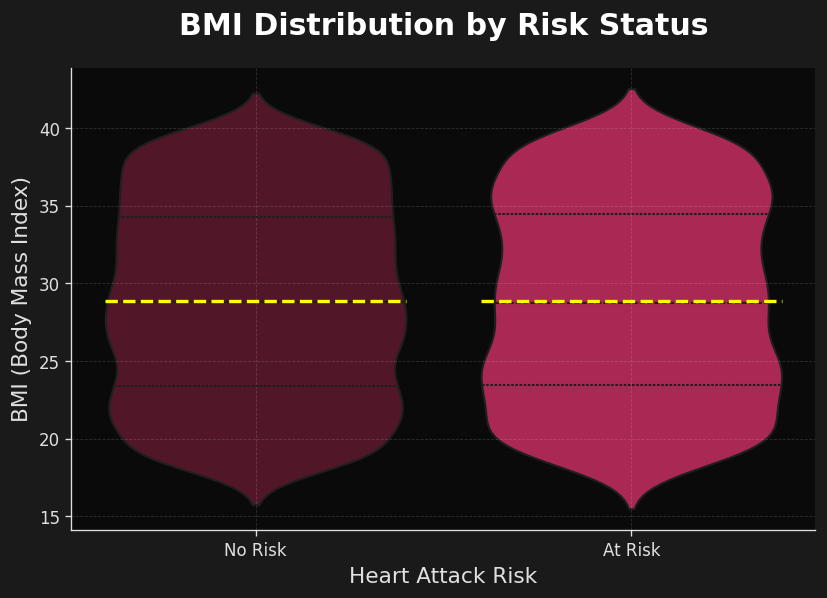
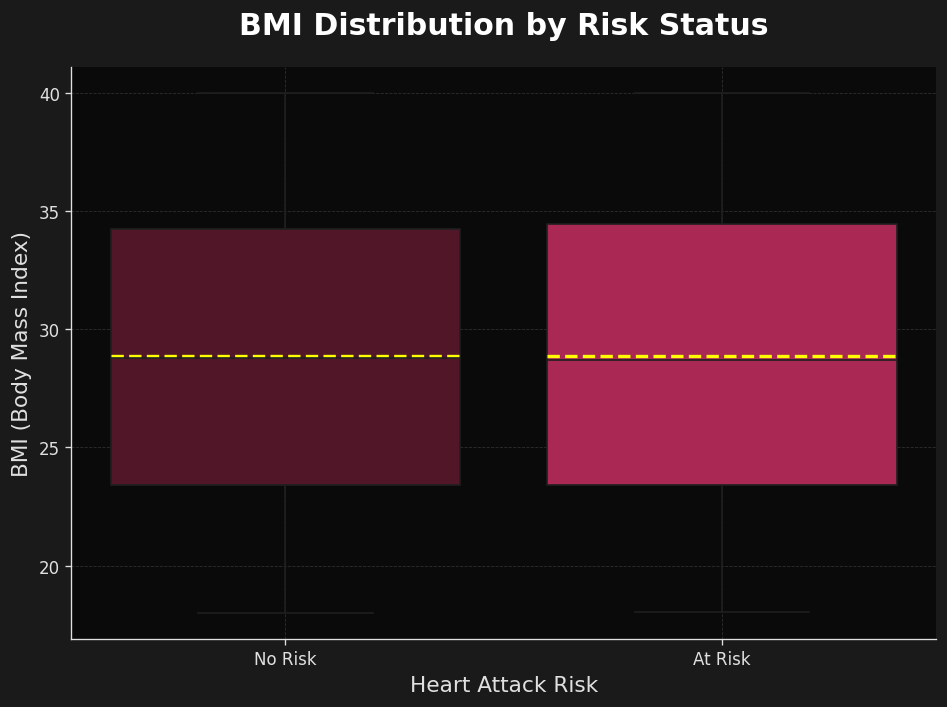
Added more Graphs

diff --git a/app.py b/app.py
@@ -81,7 +81,7 @@ def generate_insights(df):
                 f"Avg BMI (At Risk): <strong>{avg_bmi_risk:.1f}</strong>",
                 f"Avg BMI (Healthy): <strong>{avg_bmi_healthy:.1f}</strong>"
             ],
-            "description": "Body Mass Index (BMI) distribution shows distinct patterns between risk groups, highlighting obesity as a potential contributor."
+            "description": "The box plot compares the median and spread of Body Mass Index (BMI) between risk groups, highlighting potential differences in distribution and outliers."
         }
 
         # 5. Lifestyle Factors
@@ -121,10 +121,64 @@ def generate_insights(df):
             "description": "This chart provides a high-level view of the dataset's balance between at-risk and healthy individuals."
         }
 
+        # 8. Heart Rate Line Plot
+        avg_hr_by_age = df.groupby('Age')['Heart Rate'].mean()
+        peak_hr_age = avg_hr_by_age.idxmax()
+        
+        insights['heart_rate_line'] = {
+            "title": "Heart Rate Trends",
+            "stats": [
+                f"Peak Average Heart Rate Age: <strong>{peak_hr_age} years</strong>",
+                f"Max Average Heart Rate: <strong>{avg_hr_by_age.max():.1f} bpm</strong>"
+            ],
+            "description": "This line plot visualizes how the average heart rate changes across different ages, highlighting potential age-related trends."
+        }
+
+        # 9. Medical Indicators Correlation Heatmap
+        # Ensure Systolic_BP is available (it might be created in step 3, but good to be safe)
+        if 'Systolic_BP' not in df.columns:
+            df['Systolic_BP'] = df['Blood Pressure'].str.split('/').str[0].astype(float)
+            
+        target_cols = ['Age', 'Cholesterol', 'Heart Rate', 'BMI', 'Systolic_BP', 'Heart Attack Risk']
+        # Filter for columns that actually exist
+        existing_cols = [c for c in target_cols if c in df.columns]
+        
+        corr_matrix = df[existing_cols].corr()
+        
+        # Find strongest correlation with Risk (excluding Risk itself)
+        if 'Heart Attack Risk' in corr_matrix.columns:
+            risk_corr = corr_matrix['Heart Attack Risk'].drop('Heart Attack Risk')
+            strongest_feature = risk_corr.abs().idxmax()
+            strongest_val = risk_corr[strongest_feature]
+        else:
+            strongest_feature = "N/A"
+            strongest_val = 0.0
+        
+        insights['correlation_heatmap'] = {
+            "title": "Medical Correlations",
+            "stats": [
+                f"Strongest Risk Predictor: <strong>{strongest_feature}</strong>",
+                f"Correlation Coefficient: <strong>{strongest_val:.2f}</strong>"
+            ],
+            "description": "This heatmap focuses specifically on physiological measurements (Age, BMI, BP, etc.) to identify which medical indicators have the strongest relationship with heart attack risk."
+        }
+
+        # 10. Cholesterol Area Plot
+        avg_chol_by_age = df.groupby('Age')['Cholesterol'].mean()
+        
+        insights['cholesterol_area'] = {
+            "title": "Cholesterol Accumulation",
+            "stats": [
+                f"Highest Avg Cholesterol: <strong>{avg_chol_by_age.max():.1f} mg/dL</strong>",
+                f"Age with Highest Cholesterol: <strong>{avg_chol_by_age.idxmax()} years</strong>"
+            ],
+            "description": "The area plot shows the magnitude of average cholesterol levels across the age spectrum."
+        }
+
     except Exception as e:
         print(f"Error generating insights: {e}")
         # Fallback for all keys if something fails
-        for key in ['age_distribution', 'risk_by_gender', 'cholesterol_bp', 'bmi_analysis', 'lifestyle_factors', 'age_groups', 'risk_distribution_pie']:
+        for key in ['age_distribution', 'risk_by_gender', 'cholesterol_bp', 'bmi_analysis', 'lifestyle_factors', 'age_groups', 'risk_distribution_pie', 'heart_rate_line', 'correlation_heatmap', 'cholesterol_area']:
             if key not in insights:
                 insights[key] = {
                     "title": "Analysis Unavailable",
@@ -158,13 +212,16 @@ def dataset_page():
 
     # Define available plots
     plot_names = [
-        {"id": "age_distribution", "name": "Age Distribution by Risk"},
-        {"id": "risk_by_gender", "name": "Heart Attack Risk by Gender"},
-        {"id": "cholesterol_bp", "name": "Cholesterol vs Blood Pressure"},
-        {"id": "bmi_analysis", "name": "BMI Distribution by Risk"},
-        {"id": "lifestyle_factors", "name": "Lifestyle Risk Factors"},
-        {"id": "age_groups", "name": "Risk Distribution Across Age Groups"},
-        {"id": "risk_distribution_pie", "name": "Overall Risk Distribution"},
+        {"id": "age_distribution", "name": "Age Distribution by Risk (Histogram)"},
+        {"id": "risk_by_gender", "name": "Heart Attack Risk by Gender (Bar Chart)"},
+        {"id": "cholesterol_bp", "name": "Cholesterol vs Blood Pressure (Scatter Plot)"},
+        {"id": "bmi_analysis", "name": "BMI Distribution by Risk (Box Plot)"},
+        {"id": "lifestyle_factors", "name": "Lifestyle Risk Factors (Bar Chart)"},
+        {"id": "age_groups", "name": "Risk Distribution Across Age Groups (Stacked Bar)"},
+        {"id": "risk_distribution_pie", "name": "Overall Risk Distribution (Pie Chart)"},
+        {"id": "heart_rate_line", "name": "Avg Heart Rate by Age (Line Plot)"},
+        {"id": "correlation_heatmap", "name": "Feature Correlation (Heatmap)"},
+        {"id": "cholesterol_area", "name": "Cholesterol Levels by Age (Area Plot)"},
     ]
 
     # Generate insights
@@ -282,8 +339,8 @@ def plot(plotname):
         
         # Create figure based on plot type
         figsize = (12, 7)
-        if plotname in ["cholesterol_bp", "bmi_analysis", "lifestyle_factors", "risk_distribution_pie"]:
-            figsize = (8, 5)
+        if plotname in ["cholesterol_bp", "bmi_analysis", "lifestyle_factors", "risk_distribution_pie", "correlation_heatmap"]:
+            figsize = (8, 6)
             
         fig, ax = plt.subplots(figsize=figsize, facecolor='#1a1a1a')
         
@@ -326,9 +383,9 @@ def plot(plotname):
             plt.setp(plt.getp(cbar.ax.axes, 'yticklabels'), color='#e0e0e0')
             
         elif plotname == "bmi_analysis":
-            # Violin plot for BMI distribution
-            sns.violinplot(data=df, x='Heart Attack Risk', y='BMI', 
-                          palette=risk_colors, ax=ax, inner='quartile')
+            # Box plot for BMI distribution
+            sns.boxplot(data=df, x='Heart Attack Risk', y='BMI', 
+                          palette=risk_colors, ax=ax)
             ax.set_title("BMI Distribution by Risk Status", fontsize=18, fontweight='bold', color='white', pad=20)
             ax.set_xlabel('Heart Attack Risk', fontsize=13, color='#e0e0e0')
             ax.set_ylabel('BMI (Body Mass Index)', fontsize=13, color='#e0e0e0')
@@ -423,12 +480,50 @@ def plot(plotname):
             # Ensure aspect ratio is equal so pie is drawn as a circle
             ax.axis('equal')
             
+        elif plotname == "heart_rate_line":
+            # Line Plot: Average Heart Rate by Age
+            avg_hr = df.groupby('Age')['Heart Rate'].mean()
+            avg_hr.plot(kind='line', color=colors[2], ax=ax, linewidth=2, marker='o', markersize=4)
+            ax.set_title("Average Heart Rate by Age", fontsize=18, fontweight='bold', color='white', pad=20)
+            ax.set_xlabel('Age (years)', fontsize=13, color='#e0e0e0')
+            ax.set_ylabel('Average Heart Rate (bpm)', fontsize=13, color='#e0e0e0')
+            ax.grid(True, alpha=0.2)
+
+        elif plotname == "correlation_heatmap":
+            # Heatmap: Medical Indicators Correlation
+            # Create Systolic BP if not exists
+            if 'Systolic_BP' not in df.columns:
+                df['Systolic_BP'] = df['Blood Pressure'].str.split('/').str[0].astype(float)
+            
+            cols_to_plot = ['Age', 'Cholesterol', 'Heart Rate', 'BMI', 'Systolic_BP', 'Heart Attack Risk']
+            # Filter only existing columns
+            cols_to_plot = [c for c in cols_to_plot if c in df.columns]
+            
+            corr = df[cols_to_plot].corr()
+            
+            sns.heatmap(corr, annot=True, fmt=".2f", cmap='RdYlBu_r', ax=ax, 
+                       cbar_kws={'label': 'Correlation Coefficient'}, vmin=-1, vmax=1)
+            ax.set_title("Medical Indicators Correlation Matrix", fontsize=18, fontweight='bold', color='white', pad=20)
+            # Fix for heatmap labels being cut off
+            plt.xticks(rotation=45, ha='right')
+            plt.yticks(rotation=0)
+
+        elif plotname == "cholesterol_area":
+            # Area Plot: Average Cholesterol by Age
+            avg_chol = df.groupby('Age')['Cholesterol'].mean()
+            ax.fill_between(avg_chol.index, avg_chol.values, color=colors[2], alpha=0.4)
+            ax.plot(avg_chol.index, avg_chol.values, color=colors[3], linewidth=2)
+            ax.set_title("Average Cholesterol Levels by Age", fontsize=18, fontweight='bold', color='white', pad=20)
+            ax.set_xlabel('Age (years)', fontsize=13, color='#e0e0e0')
+            ax.set_ylabel('Cholesterol (mg/dL)', fontsize=13, color='#e0e0e0')
+            ax.grid(True, alpha=0.2)
+
         else:
             plt.close(fig)
             return abort(404)
         
-        # Apply consistent dark theme styling (skip for pie charts)
-        if plotname != "risk_distribution_pie":
+        # Apply consistent dark theme styling (skip for pie charts and heatmaps)
+        if plotname not in ["risk_distribution_pie", "correlation_heatmap"]:
             ax.set_facecolor('#0a0a0a')
             ax.tick_params(colors='#e0e0e0', labelsize=10)
             ax.spines['bottom'].set_color('#e0e0e0')
